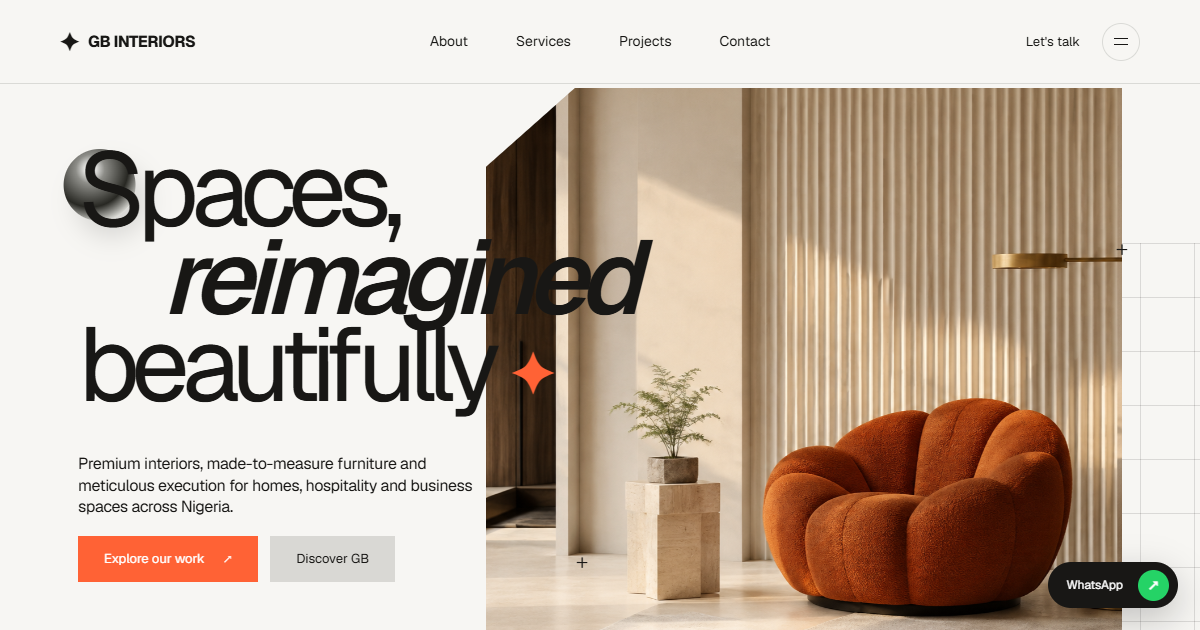
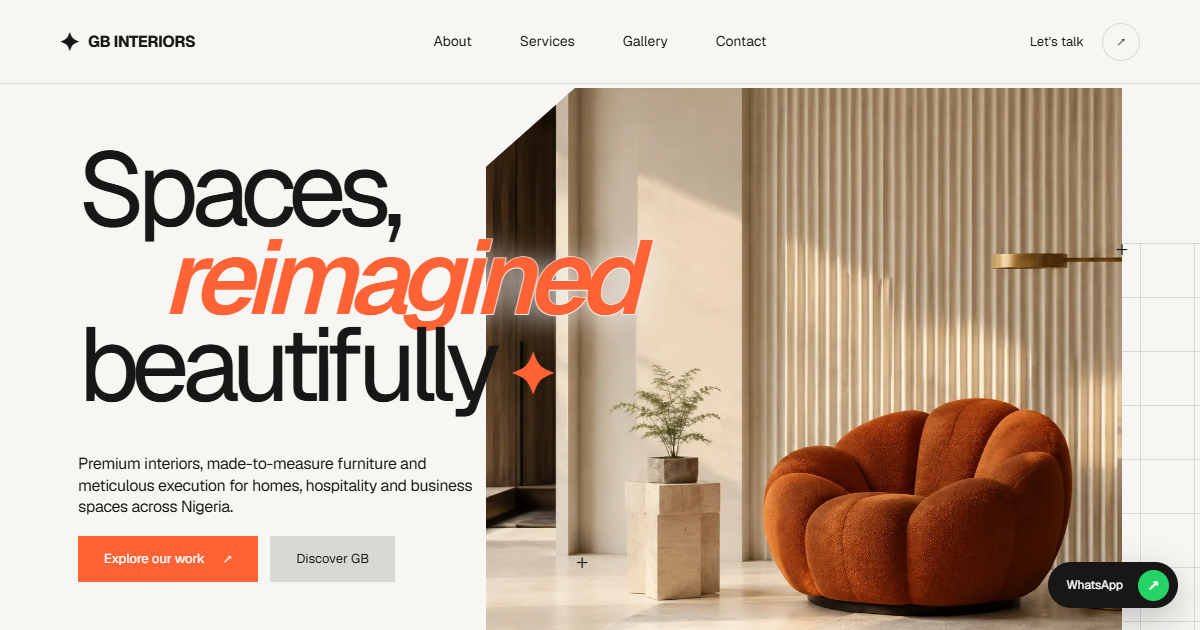
Refine hero, add mobile navigation and dedicated gallery

diff --git a/app/globals.css b/app/globals.css
@@ -31,18 +31,19 @@ main { width: min(100%, 1500px); margin: 0 auto; background: var(--paper); overf
 .desktop-nav a { position: relative; }
 .desktop-nav a::after { content: ''; position: absolute; inset: auto 0 -7px; height: 1px; background: currentColor; transform: scaleX(0); transition: transform .25s ease; }
 .desktop-nav a:hover::after { transform: scaleX(1); }
-.menu-link { justify-self: end; display: inline-flex; align-items: center; gap: 22px; font-size: 13px; }
+.desktop-talk { justify-self: end; display: inline-flex; align-items: center; gap: 18px; font-size: 13px; }
+.desktop-talk span:last-child { width: 38px; height: 38px; border: 1px solid var(--line); border-radius: 999px; display: grid; place-items: center; transition: background .25s ease, color .25s ease; }
+.desktop-talk:hover span:last-child { background: var(--foreground); color: white; }
+.mobile-menu { display: none; }
 .menu-icon { width: 38px; height: 38px; border: 1px solid var(--line); border-radius: 999px; display: grid; place-content: center; gap: 5px; transition: background .25s ease, color .25s ease; }
 .menu-icon i { width: 14px; height: 1px; background: currentColor; display: block; }
-.menu-link:hover .menu-icon { background: var(--foreground); color: white; }
 
 .hero { min-height: calc(100svh - 84px); position: relative; padding: clamp(55px, 8vw, 110px) clamp(24px, 6.5vw, 98px) 70px; isolation: isolate; }
 .grid-surface { position: absolute; right: 0; top: 28%; width: 50%; height: 72%; z-index: -2; background-image: linear-gradient(var(--line) 1px, transparent 1px), linear-gradient(90deg, var(--line) 1px, transparent 1px); background-size: 54px 54px; mask-image: linear-gradient(to right, transparent, #000 28%); }
 .hero h1 { margin: 0; font-size: clamp(58px, 8.7vw, 145px); font-weight: 410; line-height: .84; letter-spacing: -0.078em; position: relative; z-index: 3; }
 .hero h1 span, .hero h1 em { display: block; }
-.hero h1 em { margin-left: clamp(50px, 7vw, 115px); }
+.hero h1 em { margin-left: clamp(50px, 7vw, 115px); color: var(--orange); -webkit-text-stroke: 1px rgba(247,246,243,.92); paint-order: stroke fill; text-shadow: 0 4px 28px rgba(247,246,243,.98), 0 1px 0 rgba(247,246,243,.9); }
 .hero h1 b { font-style: normal; color: var(--orange); font-size: .52em; vertical-align: .16em; letter-spacing: 0; }
-.hero-orb { position: absolute; width: clamp(46px, 6vw, 84px); aspect-ratio: 1; left: clamp(24px, 6.5vw, 98px); top: clamp(34px, 5.4vw, 75px); border-radius: 50%; background: radial-gradient(circle at 37% 28%, #f8f8f6 0 5%, #8d8d88 21%, #282823 55%, #d7d7d2 78%, #555 100%); box-shadow: 12px 16px 25px rgba(0,0,0,.13); transform: translateX(-20%); }
 .hero-copy { margin: clamp(34px, 6vw, 82px) 0 0; max-width: 420px; font-size: clamp(16px, 1.3vw, 21px); line-height: 1.35; letter-spacing: -0.025em; position: relative; z-index: 3; }
 .hero-actions { display: flex; gap: 12px; margin-top: 28px; position: relative; z-index: 4; }
 .button { min-height: 50px; display: inline-flex; align-items: center; justify-content: center; padding: 0 26px; font-size: 13px; transition: transform .2s ease, background .2s ease, color .2s ease; }
@@ -84,6 +85,31 @@ main { width: min(100%, 1500px); margin: 0 auto; background: var(--paper); overf
 .project-meta a { flex: 0 0 39px; width: 39px; height: 39px; border: 1px solid var(--foreground); border-radius: 50%; display: grid; place-items: center; transition: .25s ease; }
 .project-meta a:hover { background: var(--orange); border-color: var(--orange); color: white; }
 .project-description { margin: 12px 0 0; max-width: 390px; font-size: 13px; line-height: 1.45; color: #5c5954; }
+.gallery-cta-row { margin-top: 72px; padding-top: 24px; border-top: 1px solid var(--line); display: flex; align-items: center; justify-content: space-between; gap: 30px; }
+.gallery-cta-row p { margin: 0; max-width: 520px; font-size: 15px; line-height: 1.45; }
+
+.gallery-hero { min-height: 660px; padding: clamp(75px, 9vw, 135px) clamp(24px, 6.5vw, 98px) 80px; display: grid; grid-template-columns: 180px minmax(0, 1fr) minmax(260px, 350px); align-items: start; gap: 30px; background-image: linear-gradient(var(--line) 1px, transparent 1px), linear-gradient(90deg, var(--line) 1px, transparent 1px); background-size: 62px 62px; }
+.gallery-hero h1 { margin: 0; font-size: clamp(58px, 7.7vw, 122px); font-weight: 410; line-height: .88; letter-spacing: -.075em; }
+.gallery-hero h1 em { color: var(--orange); font-weight: 560; }
+.gallery-hero > div { align-self: end; display: grid; gap: 34px; justify-items: start; }
+.gallery-hero > div p { margin: 0; font-size: 15px; line-height: 1.55; }
+.gallery-list { padding: 0 clamp(24px, 6.5vw, 98px) clamp(100px, 12vw, 180px); scroll-margin-top: 20px; }
+.gallery-project { display: grid; grid-template-columns: minmax(0, 1.45fr) minmax(300px, .55fr); gap: clamp(38px, 7vw, 110px); align-items: end; padding: clamp(75px, 10vw, 145px) 0; border-top: 1px solid var(--line); }
+.gallery-project-image { min-height: min(63vw, 760px); position: relative; overflow: hidden; background: #ddd; }
+.gallery-project-image img { width: 100%; height: 100%; position: absolute; inset: 0; object-fit: cover; transition: transform .9s cubic-bezier(.2,.75,.2,1); }
+.gallery-project:hover .gallery-project-image img { transform: scale(1.035); }
+.gallery-project-image > span { position: absolute; left: 16px; top: 16px; padding: 8px 10px; background: rgba(247,246,243,.9); font-family: var(--font-geist-mono); font-size: 10px; letter-spacing: .08em; text-transform: uppercase; backdrop-filter: blur(10px); }
+.gallery-project-copy { display: grid; gap: 34px; padding-bottom: 8px; }
+.gallery-project-copy > div > p { margin: 0 0 9px; font-family: var(--font-geist-mono); font-size: 10px; letter-spacing: .08em; text-transform: uppercase; }
+.gallery-project-copy h2 { margin: 0; font-size: clamp(42px, 5vw, 76px); font-weight: 470; line-height: .92; letter-spacing: -.065em; }
+.gallery-project-copy > p { margin: 0; color: #5c5954; font-size: 15px; line-height: 1.55; }
+.gallery-project-copy > a { width: max-content; max-width: 100%; display: inline-flex; align-items: center; justify-content: space-between; gap: 30px; padding: 15px 0 10px; border-bottom: 1px solid currentColor; font-size: 13px; font-weight: 560; }
+.gallery-project:nth-child(even) { grid-template-columns: minmax(300px, .55fr) minmax(0, 1.45fr); }
+.gallery-project:nth-child(even) .gallery-project-image { order: 2; }
+.gallery-project:nth-child(even) .gallery-project-copy { order: 1; }
+.gallery-end { min-height: 690px; padding: clamp(95px, 11vw, 165px) clamp(24px, 6.5vw, 98px); background: var(--dark); color: #f3f1ed; display: grid; grid-template-columns: 180px minmax(0, 1fr) 150px; gap: 30px; align-items: center; }
+.gallery-end h2 { margin: 0; font-size: clamp(58px, 7.6vw, 118px); line-height: .88; font-weight: 410; letter-spacing: -.075em; }
+.gallery-end h2 em { color: var(--orange); font-weight: 560; }
 
 .expertise { background: #edebe7; }
 .expertise-heading { display: grid; grid-template-columns: 180px minmax(0, 1fr); gap: 30px; }
@@ -173,12 +199,28 @@ footer a { color: white; }
   .about { grid-template-columns: 1fr; }
   .about-visual { min-height: 650px; }
   .contact-top { grid-template-columns: 120px 1fr 140px; }
+  .gallery-hero { grid-template-columns: 120px 1fr; }
+  .gallery-hero > div { grid-column: 2; grid-template-columns: 1fr auto; align-items: end; }
+  .gallery-end { grid-template-columns: 120px 1fr 140px; }
 }
 
 @media (max-width: 820px) {
   .site-header { grid-template-columns: 1fr auto; height: 72px; }
   .desktop-nav { display: none; }
-  .menu-link span:first-child { display: none; }
+  .desktop-talk { display: none; }
+  .mobile-menu { display: block; justify-self: end; }
+  .mobile-menu summary { list-style: none; cursor: pointer; }
+  .mobile-menu summary::-webkit-details-marker { display: none; }
+  .mobile-menu summary:hover .menu-icon, .mobile-menu[open] .menu-icon { background: var(--foreground); color: white; }
+  .mobile-menu[open] .menu-icon i:first-child { transform: translateY(3px) rotate(45deg); }
+  .mobile-menu[open] .menu-icon i:last-child { transform: translateY(-3px) rotate(-45deg); }
+  .menu-icon i { transition: transform .22s ease; }
+  .mobile-menu-panel { position: absolute; top: 100%; left: 0; right: 0; padding: 24px; background: var(--dark); color: #f3f1ed; box-shadow: 0 22px 45px rgba(0,0,0,.2); }
+  .mobile-menu-panel nav { display: grid; }
+  .mobile-menu-panel nav a { min-height: 57px; display: flex; align-items: center; gap: 22px; border-top: 1px solid rgba(255,255,255,.15); font-size: 24px; letter-spacing: -.04em; }
+  .mobile-menu-panel nav a span { color: var(--orange); font-family: var(--font-geist-mono); font-size: 9px; letter-spacing: .08em; }
+  .mobile-menu-panel nav a:last-child { border-bottom: 1px solid rgba(255,255,255,.15); }
+  .mobile-talk { margin-top: 22px; min-height: 50px; padding: 0 18px; background: var(--orange); color: white; display: flex; align-items: center; justify-content: space-between; font-size: 13px; }
   .hero { min-height: 900px; padding-top: 80px; }
   .hero h1 { font-size: clamp(58px, 16vw, 105px); }
   .hero h1 em { margin-left: 8vw; }
@@ -192,6 +234,11 @@ footer a { color: white; }
   .contact-top { grid-template-columns: 1fr auto; }
   .contact-top .eyebrow { grid-column: 1 / -1; }
   .contact-details { grid-template-columns: 1fr 1fr; }
+  .gallery-project, .gallery-project:nth-child(even) { grid-template-columns: 1fr; }
+  .gallery-project:nth-child(even) .gallery-project-image, .gallery-project:nth-child(even) .gallery-project-copy { order: initial; }
+  .gallery-project-image { min-height: 670px; }
+  .gallery-end { grid-template-columns: 1fr auto; }
+  .gallery-end .eyebrow { grid-column: 1 / -1; }
 }
 
 @media (max-width: 620px) {
@@ -200,7 +247,6 @@ footer a { color: white; }
   .brand { font-size: 14px; }
   .hero { min-height: 810px; padding: 66px 18px 36px; }
   .hero h1 { font-size: clamp(49px, 17vw, 72px); letter-spacing: -0.075em; }
-  .hero-orb { left: 18px; top: 36px; width: 42px; }
   .hero-copy { font-size: 16px; max-width: 100%; margin-top: 32px; }
   .hero-actions { flex-wrap: wrap; }
   .button { min-height: 46px; padding-inline: 18px; }
@@ -213,6 +259,16 @@ footer a { color: white; }
   .project-grid { grid-template-columns: 1fr; gap: 55px; }
   .project-1, .project-2, .project-3, .project-4, .project-5, .project-6 { grid-column: 1; }
   .project-2 .project-image, .project-5 .project-image, .project-image { height: 420px; }
+  .gallery-cta-row { align-items: flex-start; flex-direction: column; }
+  .gallery-hero { min-height: 650px; grid-template-columns: 1fr; padding: 65px 18px; }
+  .gallery-hero h1 { font-size: clamp(49px, 15vw, 68px); }
+  .gallery-hero > div { grid-column: 1; grid-template-columns: 1fr auto; }
+  .gallery-list { padding-inline: 18px; }
+  .gallery-project { padding: 70px 0; gap: 28px; }
+  .gallery-project-image { min-height: 470px; }
+  .gallery-project-copy { gap: 24px; }
+  .gallery-end { min-height: 600px; grid-template-columns: 1fr; padding-inline: 18px; }
+  .gallery-end h2 { font-size: clamp(49px, 15vw, 68px); }
   .service-row { grid-template-columns: 32px 1fr 18px; gap: 12px; }
   .proof-card { padding: 36px 22px; clip-path: polygon(0 0, 86% 0, 100% 8%, 100% 100%, 0 100%); }
   .proof-grid div { min-height: 145px; padding: 18px; }

diff --git a/app/page.tsx b/app/page.tsx
@@ -1,3 +1,5 @@
+import SiteHeader from './site-header';
+
 const whatsappBase = 'https://wa.me/2348165006404';
 const whatsapp = `${whatsappBase}?text=${encodeURIComponent("Hello GB Interiors, I'd like to discuss a space.")}`;
 
@@ -39,26 +41,10 @@ export default function Home() {
     <main>
       <script type="application/ld+json" dangerouslySetInnerHTML={{ __html: JSON.stringify(jsonLd) }} />
 
-      <header className="site-header">
-        <a className="brand" href="#top" aria-label="GB Interiors home">
-          <span className="brand-mark" aria-hidden="true">✦</span>
-          <span>GB INTERIORS</span>
-        </a>
-        <nav className="desktop-nav" aria-label="Primary navigation">
-          <a href="#about">About</a>
-          <a href="#services">Services</a>
-          <a href="#gallery">Projects</a>
-          <a href="#contact">Contact</a>
-        </nav>
-        <a className="menu-link" href={whatsapp} target="_blank" rel="noreferrer">
-          <span>Let&apos;s talk</span>
-          <span className="menu-icon" aria-hidden="true"><i /><i /></span>
-        </a>
-      </header>
+      <SiteHeader />
 
       <section className="hero" id="top">
         <div className="grid-surface" aria-hidden="true" />
-        <div className="hero-orb" aria-hidden="true" />
         <h1>
           <span>Spaces,</span>
           <em>reimagined</em>
@@ -68,7 +54,7 @@ export default function Home() {
           Premium interiors, made-to-measure furniture and meticulous execution for homes, hospitality and business spaces across Nigeria.
         </p>
         <div className="hero-actions">
-          <a className="button button-primary" href="#gallery">Explore our work <span>↗</span></a>
+          <a className="button button-primary" href="/gallery#all-projects">Explore our work <span>↗</span></a>
           <a className="button button-ghost" href="#about">Discover GB</a>
         </div>
         <div className="hero-image-wrap">
@@ -84,7 +70,7 @@ export default function Home() {
         <span>Homes</span><i>✦</i><span>Restaurants</span><i>✦</i><span>Hotels</span><i>✦</i><span>Offices</span><i>✦</i><span>Worship</span><i>✦</i><span>Nationwide</span>
       </section>
 
-      <section className="projects section-pad" id="gallery">
+      <section className="projects section-pad" id="gallery-preview">
         <div className="section-intro reveal">
           <p className="eyebrow">Selected environments</p>
           <h2>Every space,<br /><em>tailored uniquely</em><br />for you.</h2>
@@ -95,7 +81,7 @@ export default function Home() {
         </div>
 
         <div className="project-grid">
-          {projects.map((project, index) => (
+          {projects.slice(0, 3).map((project, index) => (
             <article className={`project-card reveal project-${index + 1}`} key={project.title}>
               <div className="project-image">
                 <img src={project.image} alt={`${project.type} interior — ${project.description}`} loading={index < 2 ? 'eager' : 'lazy'} />
@@ -103,11 +89,15 @@ export default function Home() {
               </div>
               <div className="project-meta">
                 <div><p>{project.type}</p><h3>{project.title}</h3></div>
-                <a href={`${whatsappBase}?text=${encodeURIComponent(`Hello GB Interiors, I am interested in this ${project.type} project.`)}`} target="_blank" rel="noreferrer" aria-label={`Enquire about ${project.title}`}>↗</a>
+                <a href={`${whatsappBase}?text=${encodeURIComponent(`Hello GB Interiors, I would like a design inspired by “${project.title}” (${project.type}) reimagined for my space.\n\n${project.description}\n\nReference image: https://gb-interiors.tzarkprovince.chatgpt.site${project.image}`)}`} target="_blank" rel="noreferrer" aria-label={`Enquire about ${project.title}`}>↗</a>
               </div>
               <p className="project-description">{project.description}</p>
             </article>
           ))}
+        </div>
+        <div className="gallery-cta-row reveal">
+          <p>See the complete collection of residential, hospitality, worship and workplace environments.</p>
+          <a className="button button-primary" href="/gallery">View the full gallery <span>↗</span></a>
         </div>
       </section>
 
@@ -131,10 +121,10 @@ export default function Home() {
             <h3>One team. Every considered detail.</h3>
             <p>We combine creative direction with disciplined project care, selecting premium assets and managing the journey from first sketch to the final cushion.</p>
             <div className="proof-grid">
+              <div><strong>500+</strong><span>Clients served<br />with care</span></div>
               <div><strong>02</strong><span>Home offices<br />Lagos + Benin</span></div>
               <div><strong>NG</strong><span>Projects delivered<br />across Nigeria</span></div>
               <div><strong>01</strong><span>Dedicated team<br />start to finish</span></div>
-              <div><strong>∞</strong><span>Possibilities for<br />every kind of space</span></div>
             </div>
           </aside>
         </div>

diff --git a/app/gallery/page.tsx b/app/gallery/page.tsx
@@ -1,0 +1,57 @@
+import type { Metadata } from 'next';
+import SiteHeader from '../site-header';
+
+const whatsapp = `https://wa.me/2348165006404?text=${encodeURIComponent("Hello GB Interiors, I'd like to discuss a project I saw in your gallery.")}`;
+
+const projects = [
+  { title: 'After Dark', type: 'Restaurant + Bar', place: 'Hospitality', image: '/restaurant-bar.webp', description: 'Layered amber light, curved terracotta seating and a glowing bar give this destination its intimate rhythm.' },
+  { title: 'Quiet Luxury', type: 'Private Residence', place: 'Living', image: '/hero-interior.webp', description: 'A sculptural focal point set against calm stone, warm brass and finely fluted surfaces.' },
+  { title: 'Gathered Light', type: 'Kitchen + Dining', place: 'Residential', image: '/kitchen.webp', description: 'A generous stone island and warm oak joinery designed around everyday rituals and effortless hosting.' },
+  { title: 'The Lagos Suite', type: 'Boutique Hotel', place: 'Hospitality', image: '/hotel-suite.webp', description: 'A restful guest experience composed in cocoa, sand, woven craft and a restrained sunset accent.' },
+  { title: 'Grace in Form', type: 'Sanctuary', place: 'Worship', image: '/sanctuary.webp', description: 'Timber rhythms, balanced light and a clear central axis create a welcoming place to gather.' },
+  { title: 'Made for Decisions', type: 'Executive Office', place: 'Workplace', image: '/executive-office.webp', description: 'Confident curves, tactile materials and a boardroom with quiet, measured presence.' },
+];
+
+export const metadata: Metadata = {
+  title: 'Project Gallery',
+  description: 'Explore residential, hospitality, workplace and worship interior design environments by GB Interiors in Nigeria.',
+  alternates: { canonical: '/gallery' },
+  openGraph: {
+    title: 'GB Interiors Project Gallery',
+    description: 'Premium interiors for homes, hospitality, work and worship across Nigeria.',
+    url: '/gallery',
+    images: ['/og.png'],
+  },
+};
+
+export default function GalleryPage() {
+  return (
+    <main className="gallery-page">
+      <SiteHeader page="gallery" />
+
+      <section className="gallery-hero">
+        <p className="eyebrow">The project gallery · 01—06</p>
+        <h1>A living archive<br />of <em>remarkable spaces.</em></h1>
+        <div><p>Explore environments imagined for living, working, gathering, dining and resting—each shaped by its own story and purpose.</p><a className="circle-link" href="#all-projects" aria-label="View all gallery projects">↓</a></div>
+      </section>
+
+      <section className="gallery-list" id="all-projects" aria-label="GB Interiors project collection">
+        {projects.map((project, index) => (
+          <article className="gallery-project reveal" key={project.title}>
+            <div className="gallery-project-image"><img src={project.image} alt={`${project.type} interior — ${project.description}`} loading={index < 2 ? 'eager' : 'lazy'} /><span>{String(index + 1).padStart(2, '0')} · {project.place}</span></div>
+            <div className="gallery-project-copy"><div><p>{project.type}</p><h2>{project.title}</h2></div><p>{project.description}</p><a href={`https://wa.me/2348165006404?text=${encodeURIComponent(`Hello GB Interiors, I would like a design inspired by “${project.title}” (${project.type}) reimagined for my space.\n\n${project.description}\n\nReference image: https://gb-interiors.tzarkprovince.chatgpt.site${project.image}`)}`} target="_blank" rel="noreferrer" aria-label={`Discuss a project like ${project.title}`}>Redesign this for my space <span>↗</span></a></div>
+          </article>
+        ))}
+      </section>
+
+      <section className="gallery-end">
+        <p className="eyebrow">Your space belongs here</p>
+        <h2>Let&apos;s create what<br /><em>comes next.</em></h2>
+        <a className="round-cta" href={whatsapp} target="_blank" rel="noreferrer"><span>WhatsApp us</span><b>↗</b></a>
+      </section>
+
+      <footer><span>© {new Date().getFullYear()} GB Interiors</span><span>Registered interior design business</span><a href="/">Return home ↑</a></footer>
+    </main>
+  );
+}
+

diff --git a/vite.config.ts b/vite.config.ts
@@ -2,61 +2,14 @@ import { sites } from '@openai/sites-vite-plugin';
 import tailwindcss from '@tailwindcss/postcss';
 import vinext from 'vinext';
 import { defineConfig } from 'vite';
-import hostingConfig from './.openai/hosting.json';
 
-const SITE_CREATOR_PLACEHOLDER_DATABASE_ID =
-  '00000000-0000-4000-8000-000000000000';
-
-const { d1, r2 } = hostingConfig;
-
-// macOS Seatbelt blocks FSEvents, so Codex previews need polling for HMR.
 const isCodexSeatbeltSandbox = process.env.CODEX_SANDBOX === 'seatbelt';
 
-const localBindingConfig = {
-  main: 'vinext/server/fetch-handler',
-  compatibility_flags: ['nodejs_compat'],
-  d1_databases: d1
-    ? [
-        {
-          binding: d1,
-          database_name: 'site-creator-d1',
-          database_id: SITE_CREATOR_PLACEHOLDER_DATABASE_ID,
-        },
-      ]
-    : [],
-  r2_buckets: r2
-    ? [
-        {
-          binding: r2,
-          bucket_name: 'site-creator-r2',
-        },
-      ]
-    : [],
-};
-
-export default defineConfig(async () => {
-  // Keep Wrangler and Miniflare state project-local. These are non-secret tool
-  // settings; application environment belongs in ignored `.env*` files.
-  process.env.WRANGLER_WRITE_LOGS ??= 'false';
-  process.env.WRANGLER_LOG_PATH ??= '.wrangler/logs';
-  process.env.MINIFLARE_REGISTRY_PATH ??= '.wrangler/registry';
-
-  // Wrangler snapshots its log path while the Cloudflare plugin is imported.
-  const { cloudflare } = await import('@cloudflare/vite-plugin');
-
-  return {
-    css: { postcss: { plugins: [tailwindcss()] } },
-    server: isCodexSeatbeltSandbox
-      ? { watch: { useFsEvents: false, usePolling: true } }
-      : undefined,
-    plugins: [
-      vinext(),
-      sites(),
-      cloudflare({
-        viteEnvironment: { name: 'rsc', childEnvironments: ['ssr'] },
-        config: localBindingConfig,
-      }),
-    ],
-  };
+export default defineConfig({
+  css: { postcss: { plugins: [tailwindcss()] } },
+  server: isCodexSeatbeltSandbox
+    ? { watch: { useFsEvents: false, usePolling: true } }
+    : undefined,
+  plugins: [vinext(), sites()],
 });
 

diff --git a/app/site-header.tsx b/app/site-header.tsx
@@ -1,0 +1,47 @@
+const whatsapp = `https://wa.me/2348165006404?text=${encodeURIComponent("Hello GB Interiors, I'd like to discuss a space.")}`;
+
+type SiteHeaderProps = {
+  page?: 'home' | 'gallery';
+};
+
+export default function SiteHeader({ page = 'home' }: SiteHeaderProps) {
+  const links = [
+    { label: 'Home', href: '/' },
+    { label: 'About', href: page === 'home' ? '#about' : '/#about' },
+    { label: 'Services', href: page === 'home' ? '#services' : '/#services' },
+    { label: 'Gallery', href: '/gallery' },
+    { label: 'Contact', href: page === 'home' ? '#contact' : '/#contact' },
+  ];
+
+  return (
+    <header className="site-header">
+      <a className="brand" href="/" aria-label="GB Interiors home">
+        <span className="brand-mark" aria-hidden="true">✦</span>
+        <span>GB INTERIORS</span>
+      </a>
+
+      <nav className="desktop-nav" aria-label="Primary navigation">
+        {links.slice(1).map((link) => <a href={link.href} key={link.label}>{link.label}</a>)}
+      </nav>
+
+      <a className="desktop-talk" href={whatsapp} target="_blank" rel="noreferrer">
+        <span>Let&apos;s talk</span><span aria-hidden="true">↗</span>
+      </a>
+
+      <details className="mobile-menu">
+        <summary aria-label="Open navigation menu">
+          <span className="menu-icon" aria-hidden="true"><i /><i /></span>
+        </summary>
+        <div className="mobile-menu-panel">
+          <nav aria-label="Mobile navigation">
+            {links.map((link, index) => (
+              <a href={link.href} key={link.label}><span>{String(index + 1).padStart(2, '0')}</span>{link.label}</a>
+            ))}
+          </nav>
+          <a className="mobile-talk" href={whatsapp} target="_blank" rel="noreferrer">Start a project on WhatsApp <span>↗</span></a>
+        </div>
+      </details>
+    </header>
+  );
+}
+

diff --git a/next.config.ts b/next.config.ts
@@ -1,6 +1,8 @@
 import type { NextConfig } from 'next';
 
-const nextConfig: NextConfig = {};
+const nextConfig: NextConfig = {
+  output: 'export',
+};
 
 export default nextConfig;
 
